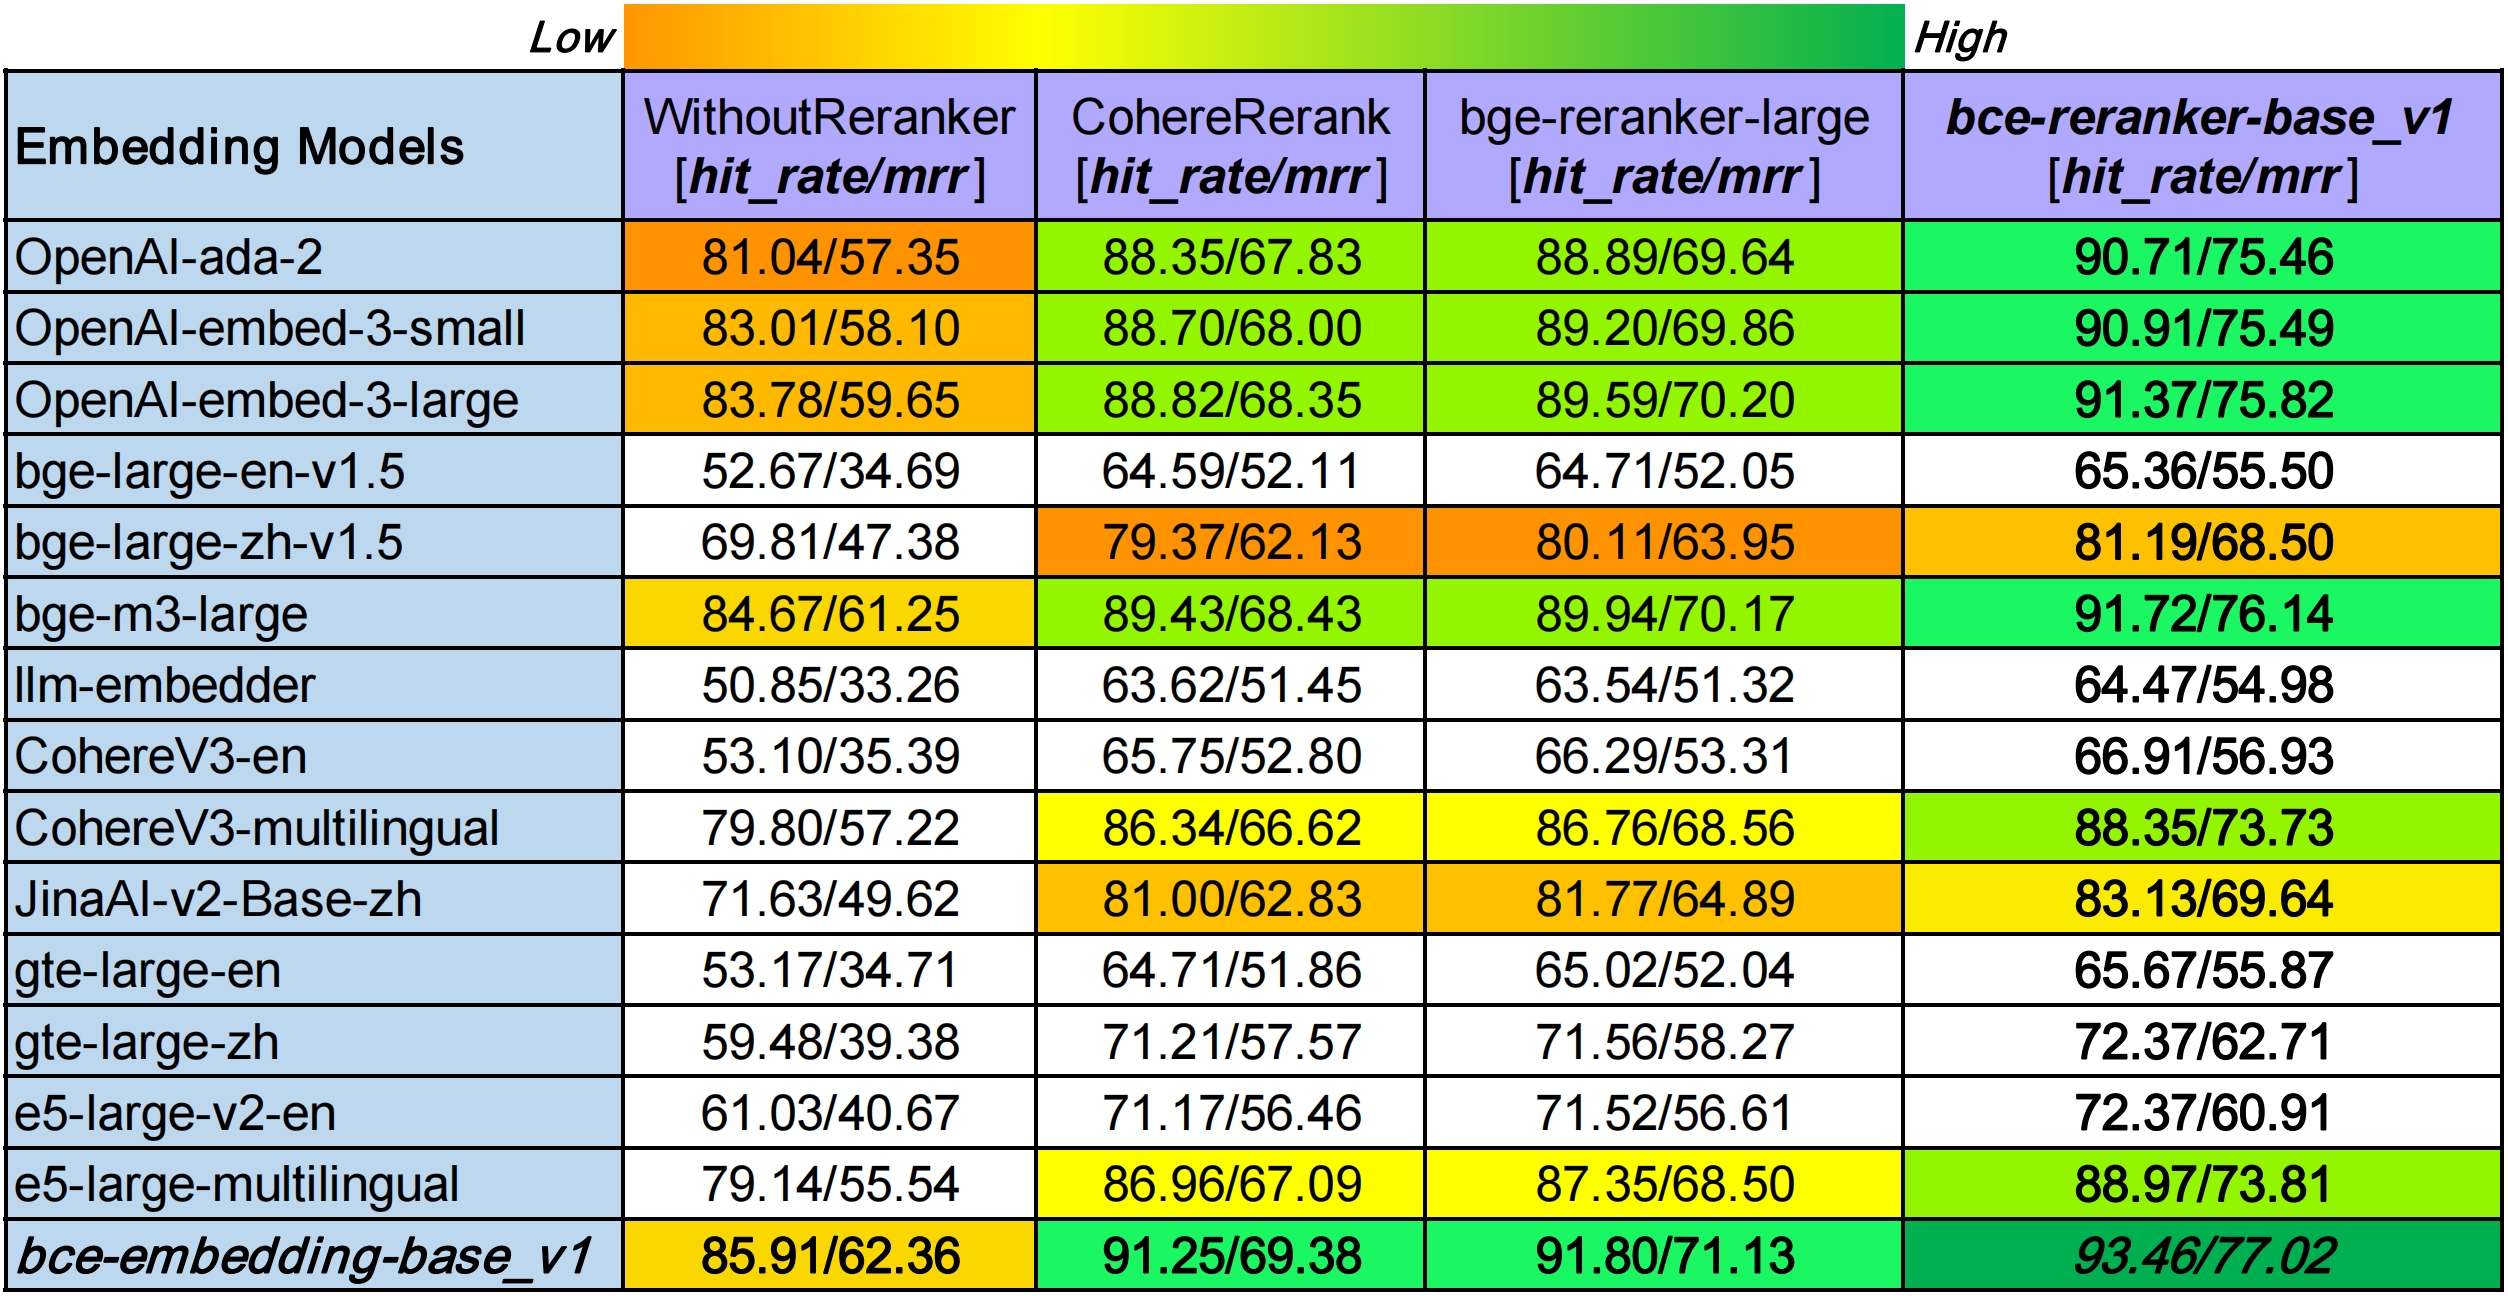
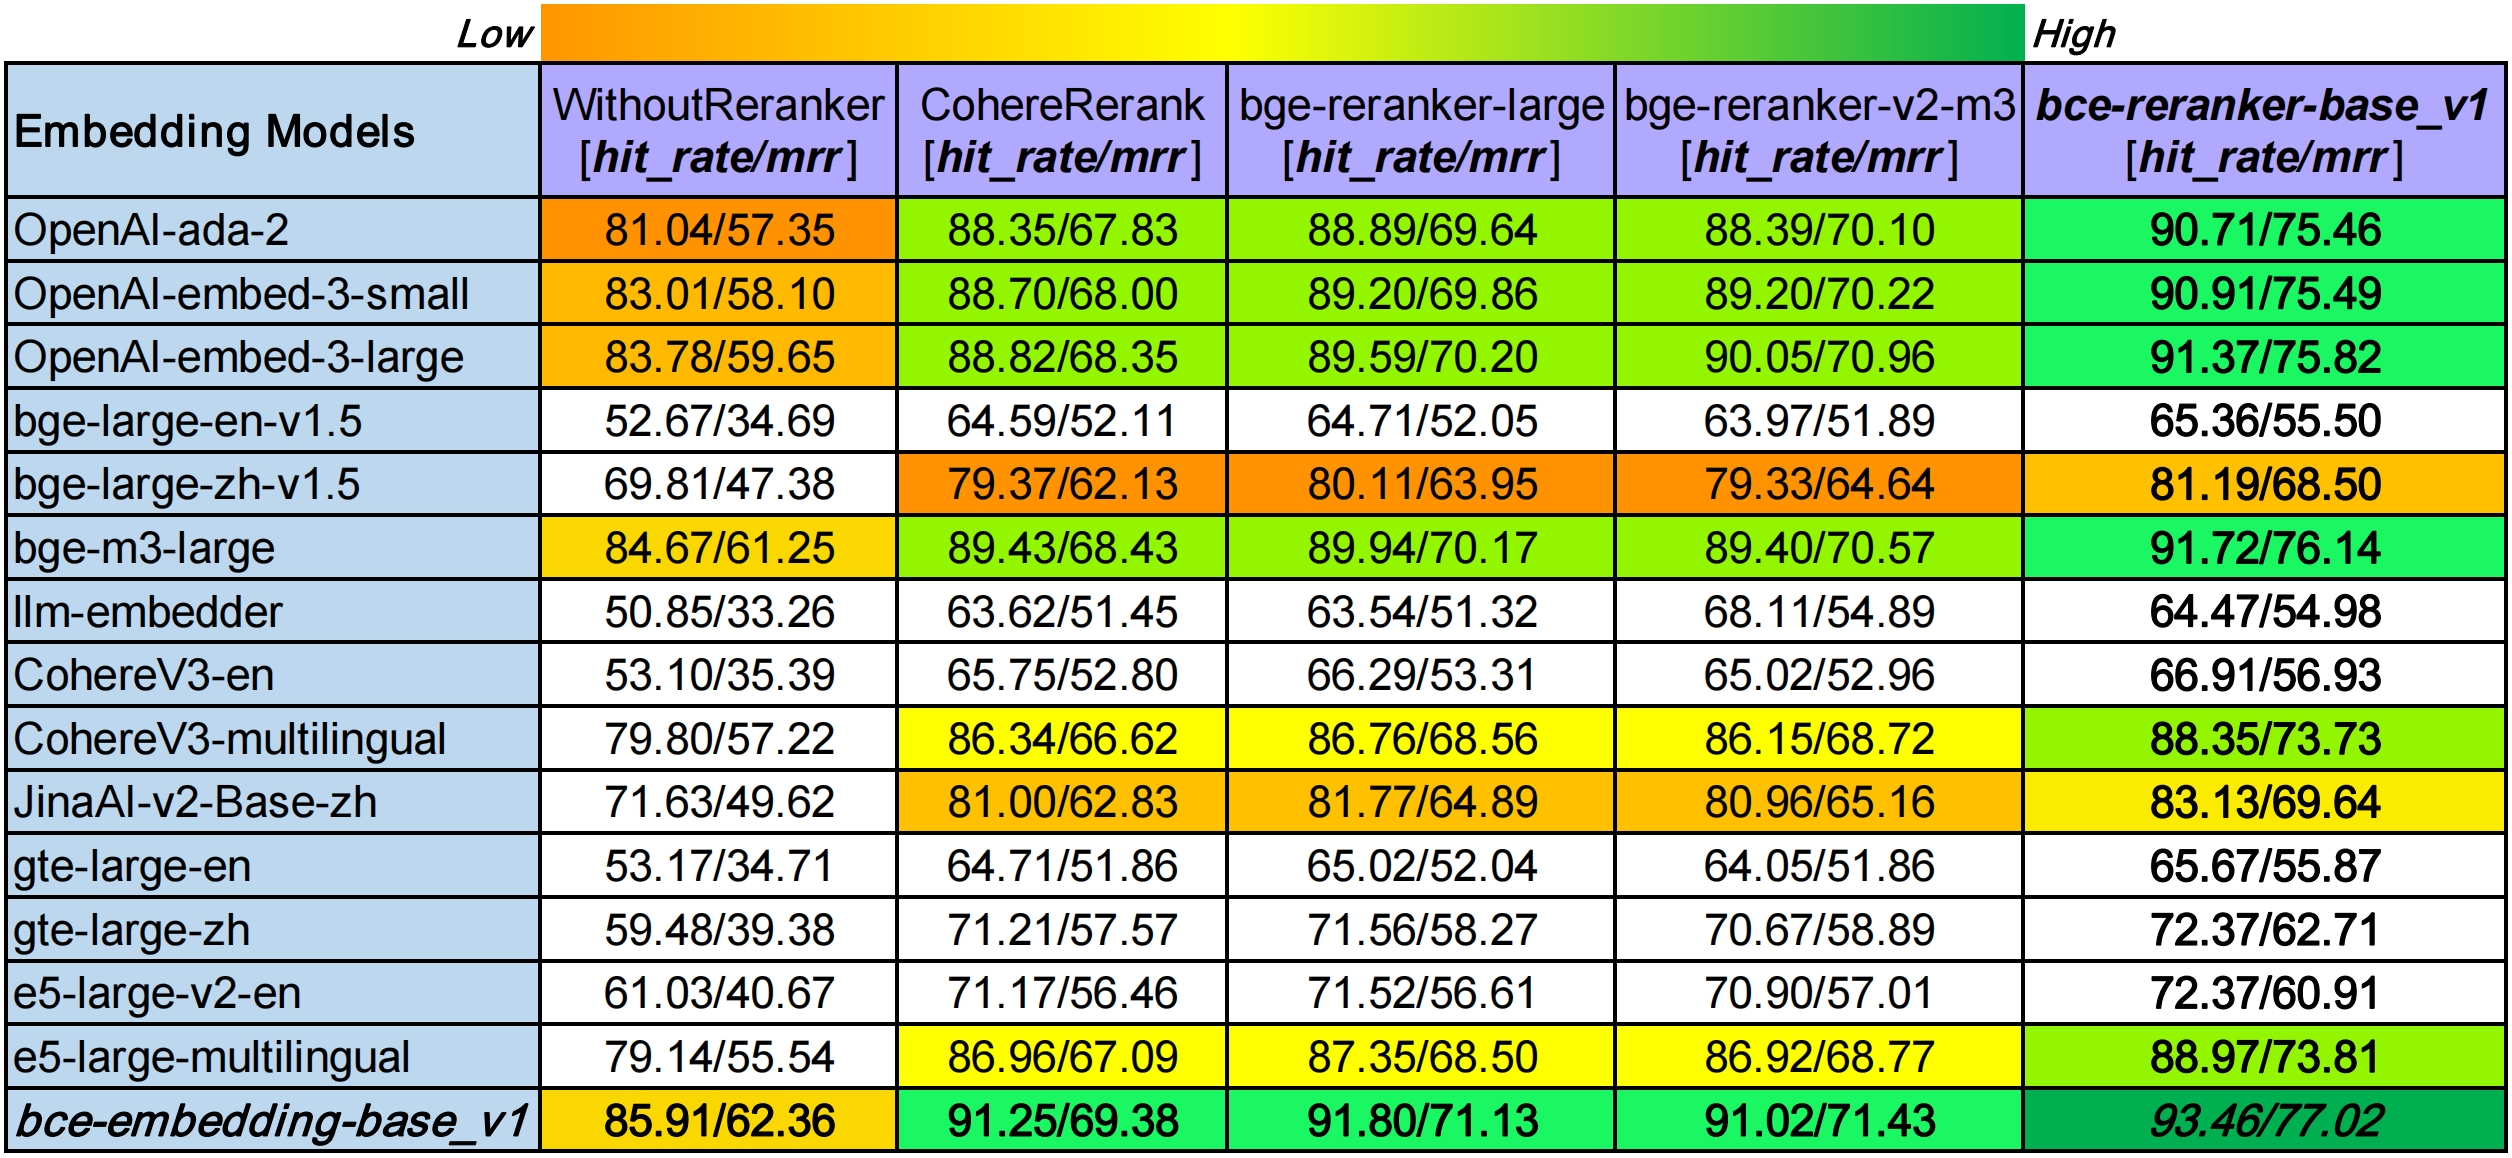
Update RAG leaderboard

diff --git a/BCEmbedding/tools/eval_rag/eval_llamaindex_reproduce.py b/BCEmbedding/tools/eval_rag/eval_llamaindex_reproduce.py
@@ -2,7 +2,7 @@
 @Description: 
 @Author: shenlei
 @Date: 2023-12-26 16:24:57
-@LastEditTime: 2024-02-24 23:14:49
+@LastEditTime: 2024-03-19 09:59:46
 @LastEditors: shenlei
 '''
 import os, json
@@ -75,6 +75,7 @@ RERANKERS = {
     "CohereRerank": {'model': CohereRerank, 'args': {'api_key': os.environ.get('COHERE_APPKEY'), 'top_n': 5}},
     "bge-reranker-base": {'model': SentenceTransformerRerank, 'args': {'model': "BAAI/bge-reranker-base", 'top_n': 5, 'device': 'cuda:1'}},
     "bge-reranker-large": {'model': SentenceTransformerRerank, 'args': {'model': "BAAI/bge-reranker-large", 'top_n': 5, 'device': 'cuda:1'}},
+    "bge-reranker-v2-m3": {'model': SentenceTransformerRerank, 'args': {'model': "BAAI/bge-reranker-v2-m3", 'top_n': 5, 'device': 'cuda:1'}},
     "bce-reranker-base_v1": {'model': SentenceTransformerRerank, 'args': {'model': "maidalun1020/bce-reranker-base_v1", 'top_n': 5, 'device': 'cuda:1'}},
 }
 

diff --git a/BCEmbedding/tools/eval_rag/eval_llamaindex_multiple_domains.py b/BCEmbedding/tools/eval_rag/eval_llamaindex_multiple_domains.py
@@ -2,7 +2,7 @@
 @Description: 
 @Author: shenlei
 @Date: 2023-12-26 16:24:57
-@LastEditTime: 2024-02-04 11:08:06
+@LastEditTime: 2024-03-19 09:59:59
 @LastEditors: shenlei
 '''
 import os, json, sys
@@ -112,6 +112,7 @@ RERANKERS = {
     "WithoutReranker": None,
     "CohereRerank": {'model': CohereRerank, 'args': {'api_key': os.environ.get('COHERE_APPKEY'), 'top_n': 5}},
     "bge-reranker-large": {'model': SentenceTransformerRerank, 'args': {'model': "BAAI/bge-reranker-large", 'top_n': 5, 'device': 'cuda:1'}},
+    "bge-reranker-v2-m3": {'model': SentenceTransformerRerank, 'args': {'model': "BAAI/bge-reranker-v2-m3", 'top_n': 5, 'device': 'cuda:1'}},
     "bce-reranker-base_v1": {'model': SentenceTransformerRerank, 'args': {'model': "maidalun1020/bce-reranker-base_v1", 'top_n': 5, 'device': 'cuda:1'}},
 }
 

diff --git a/Docs/EvaluationSummary/rag_eval_reproduced_summary.md b/Docs/EvaluationSummary/rag_eval_reproduced_summary.md
@@ -2,29 +2,29 @@
  * @Description: 
  * @Author: shenlei
  * @Date: 2023-12-31 23:44:03
- * @LastEditTime: 2024-02-04 18:10:20
+ * @LastEditTime: 2024-03-19 01:10:55
  * @LastEditors: shenlei
 -->
 # RAG Evaluations in LlamaIndex  
 
 ## Reproduce [LlamaIndex Blog](https://blog.llamaindex.ai/boosting-rag-picking-the-best-embedding-reranker-models-42d079022e83)
 
-| Embedding Models | WithoutReranker <br> [*hit_rate/mrr*] | CohereRerank <br> [*hit_rate/mrr*] | bge-reranker-base <br> [*hit_rate/mrr*] | bge-reranker-large <br> [*hit_rate/mrr*] | ***bce-reranker-base_v1*** <br> [*hit_rate/mrr*] | 
-|:-------------------------------|:--------:|:--------:|:--------:|:--------:|:--------:| 
-| OpenAI-ada-2 | 88.18/64.95 | 90.45/75.29 | 91.36/75.74 | 91.36/76.72 | **92.27/78.33** |  
-| OpenAI-embed-3-small | 88.64/64.45 | 89.09/72.99 | 90.91/74.72 | 90.45/76.07 | **91.36/77.50** |  
-| OpenAI-embed-3-large | **91.82/67.98** | **93.18/77.62** | **94.55/78.76** | **95.00/80.02** | **95.91/81.76** |  
-| bge-large-en | 81.36/59.84 | 86.36/71.61 | 87.27/73.93 | 86.82/75.23 | **88.18/77.36** |  
-| bge-base-en-v1.5 | 81.36/57.43 | 88.64/73.73 | 89.55/75.23 | 88.18/74.89 | **89.09/76.89** |  
-| bge-large-en-v1.5 | 83.18/64.34 | 92.27/76.45 | 93.18/78.57 | 92.73/79.59 | **94.09/81.74** |  
-| bge-m3-large | 89.09/69.34 | 92.27/77.36 | 93.64/78.47 | 91.82/78.79 | **94.09/81.14** |  
-| llm-embedder | 75.91/54.50 | 80.91/67.70 | 81.82/70.05 | 81.36/69.86 | **82.73/71.38** |  
-| CohereV2-en | 74.09/51.30 | 80.91/68.38 | 82.73/69.86 | 82.27/69.33 | **83.18/72.58** |  
-| CohereV3-en | 81.36/58.88 | 87.73/72.08 | 88.18/75.29 | 88.64/75.28 | **89.09/76.82** |  
-| JinaAI-v2-Small-en | 80.45/57.85 | 87.73/73.28 | 88.64/73.72 | 88.64/74.39 | **90.00/76.98** |  
-| JinaAI-v2-Base-en | 85.00/61.55 | 89.55/73.64 | 90.00/75.52 | 89.09/75.75 | **90.91/78.18** |  
-| gte-large-en | 82.27/60.28 | 90.00/73.77 | 90.00/75.94 | 90.00/76.80 | **91.36/78.42** |  
-| e5-large-v2-en | 88.64/63.80 | 90.91/75.63 | 91.36/76.64 | 91.82/76.90 | **92.73/79.32** |  
-| e5-base-multilingual | 87.73/64.21 | 90.45/75.42 | 93.18/77.20 | 91.82/78.39 | **93.64/80.53** |  
-| e5-large-multilingual | 87.27/64.28 | 90.00/75.33 | 90.00/75.94 | 90.00/76.17 | **91.36/78.64** |  
-| ***bce-embedding-base_v1*** | **91.36/71.20** | **92.73/77.65** | **95.00/79.01** | **95.00/79.95** | ***96.36/82.20*** |  
+| Embedding Models | WithoutReranker <br> [*hit_rate/mrr*] | CohereRerank <br> [*hit_rate/mrr*] | bge-reranker-base <br> [*hit_rate/mrr*] | bge-reranker-large <br> [*hit_rate/mrr*] | bge-reranker-v2-m3 <br> [*hit_rate/mrr*] | ***bce-reranker-base_v1*** <br> [*hit_rate/mrr*] | 
+|:-------------------------------|:--------:|:--------:|:--------:|:--------:|:--------:|:--------:| 
+| OpenAI-ada-2 | 88.18/64.95 | 90.45/75.29 | 91.36/75.74 | 91.36/76.72 | 90.00/76.25 | **92.27/78.33** |  
+| OpenAI-embed-3-small | 88.64/64.45 | 89.09/72.99 | 90.91/74.72 | 90.45/76.07 | 89.55/75.35 | **91.36/77.50** |  
+| OpenAI-embed-3-large | **91.82/67.98** | **93.18/77.62** | **94.55/78.76** | **95.00/80.02** | 94.09/78.11 | **95.91/81.76** |  
+| bge-large-en | 81.36/59.84 | 86.36/71.61 | 87.27/73.93 | 86.82/75.23 | 85.91/72.83 | **88.18/77.36** |  
+| bge-base-en-v1.5 | 81.36/57.43 | 88.64/73.73 | 89.55/75.23 | 88.18/74.89 | 88.18/74.23 | **89.09/76.89** |  
+| bge-large-en-v1.5 | 83.18/64.34 | 92.27/76.45 | 93.18/78.57 | 92.73/79.59 | 92.27/77.81 | **94.09/81.74** |  
+| bge-m3-large | 89.09/69.34 | 92.27/77.36 | 93.64/78.47 | 91.82/78.79 | 91.82/77.77 | **94.09/81.14** |  
+| llm-embedder | 75.91/54.50 | 80.91/67.70 | 81.82/70.05 | 81.36/69.86 | 82.27/68.55 | **82.73/71.38** |  
+| CohereV2-en | 74.09/51.30 | 80.91/68.38 | 82.73/69.86 | 82.27/69.33 | 80.91/68.94 | **83.18/72.58** |  
+| CohereV3-en | 81.36/58.88 | 87.73/72.08 | 88.18/75.29 | 88.64/75.28 | 88.18/73.52 | **89.09/76.82** |  
+| JinaAI-v2-Small-en | 80.45/57.85 | 87.73/73.28 | 88.64/73.72 | 88.64/74.39 | 88.64/73.77 | **90.00/76.98** |  
+| JinaAI-v2-Base-en | 85.00/61.55 | 89.55/73.64 | 90.00/75.52 | 89.09/75.75 | 89.55/74.33 | **90.91/78.18** |  
+| gte-large-en | 82.27/60.28 | 90.00/73.77 | 90.00/75.94 | 90.00/76.80 | 89.55/76.02 | **91.36/78.42** |  
+| e5-large-v2-en | 88.64/63.80 | 90.91/75.63 | 91.36/76.64 | 91.82/76.90 | 90.91/76.53 | **92.73/79.32** |  
+| e5-base-multilingual | 87.73/64.21 | 90.45/75.42 | 93.18/77.20 | 91.82/78.39 | 92.73/77.11 | **93.64/80.53** |  
+| e5-large-multilingual | 87.27/64.28 | 90.00/75.33 | 90.00/75.94 | 90.00/76.17 | 89.55/75.51 | **91.36/78.64** |  
+| ***bce-embedding-base_v1*** | **91.36/71.20** | **92.73/77.65** | **95.00/79.01** | **95.00/79.95** | **94.55/79.20** | ***96.36/82.20*** |  

diff --git a/Docs/EvaluationSummary/rag_eval_multiple_domains_summary_en.md b/Docs/EvaluationSummary/rag_eval_multiple_domains_summary_en.md
@@ -2,24 +2,24 @@
  * @Description: 
  * @Author: shenlei
  * @Date: 2024-01-29 16:14:48
- * @LastEditTime: 2024-02-04 14:54:55
+ * @LastEditTime: 2024-03-19 09:58:23
  * @LastEditors: shenlei
 -->
 # RAG Evaluations in LlamaIndex  
 
 ## Multiple Domains Scenarios in ["en"] 
-| Embedding Models | WithoutReranker <br> [*hit_rate/mrr*] | CohereRerank <br> [*hit_rate/mrr*] | bge-reranker-large <br> [*hit_rate/mrr*] | ***bce-reranker-base_v1*** <br> [*hit_rate/mrr*] | 
-|:-------------------------------|:--------:|:--------:|:--------:|:--------:| 
-| OpenAI-ada-2 | 85.05/62.29 | 91.72/72.77 | 91.83/72.17 | **92.90/77.17** |  
-| OpenAI-embed-3-small | 87.20/61.64 | 91.72/72.60 | 92.15/72.22 | **92.80/76.46** |  
-| OpenAI-embed-3-large | 85.38/61.79 | 90.97/72.25 | 91.29/71.97 | **91.72/76.37** |  
-| bge-large-en-v1.5 | 84.62/61.22 | 91.51/72.71 | 91.94/72.35 | **92.47/76.61** |  
-| bge-m3-large | 86.67/64.22 | 92.15/73.19 | 92.69/72.04 | **93.33/77.24** |  
-| llm-embedder | 77.53/56.10 | 86.34/69.36 | 86.56/68.78 | **87.42/73.44** |  
-| CohereV3-en | 80.65/58.33 | 87.96/70.09 | 88.71/69.61 | **89.03/74.06** |  
-| CohereV3-multilingual | 83.33/60.70 | 90.54/72.41 | 90.43/72.11 | **90.97/76.26** |  
-| JinaAI-v2-Base-en | 81.94/58.03 | 90.32/71.65 | 90.75/71.11 | **91.29/75.53** |  
-| gte-large-en | 83.44/59.18 | 90.97/72.24 | 91.61/72.38 | **92.26/76.52** |  
-| e5-large-v2-en | 85.05/61.90 | 91.18/71.45 | 91.18/70.56 | **92.37/75.81** |  
-| e5-large-multilingual | 85.91/61.87 | **93.01/73.38** | 92.80/72.45 | **93.44/77.31** |  
-| ***bce-embedding-base_v1*** | **87.42/63.93** | 92.69/73.34 | **93.33/73.06** | ***93.87/77.88*** |  
+| Embedding Models | WithoutReranker <br> [*hit_rate/mrr*] | CohereRerank <br> [*hit_rate/mrr*] | bge-reranker-large <br> [*hit_rate/mrr*] | bge-reranker-v2-m3 <br> [*hit_rate/mrr*] | ***bce-reranker-base_v1*** <br> [*hit_rate/mrr*] | 
+|:-------------------------------|:--------:|:--------:|:--------:|:--------:|:--------:| 
+| OpenAI-ada-2 | 85.05/62.29 | 91.72/72.77 | 91.83/72.17 | 89.57/70.33 | **92.90/77.17** |  
+| OpenAI-embed-3-small | 87.20/61.64 | 91.72/72.60 | 92.15/72.22 | 90.65/70.63 | **92.80/76.46** |  
+| OpenAI-embed-3-large | 85.38/61.79 | 90.97/72.25 | 91.29/71.97 | 89.89/70.71 | **91.72/76.37** |  
+| bge-large-en-v1.5 | 84.62/61.22 | 91.51/72.71 | 91.94/72.35 | 89.35/70.80 | **92.47/76.61** |  
+| bge-m3-large | 86.67/64.22 | 92.15/73.19 | 92.69/72.04 | 89.68/70.52 | **93.33/77.24** |  
+| llm-embedder | 77.53/56.10 | 86.34/69.36 | 86.56/68.78 | **89.35/70.61** | **87.42/73.44** |  
+| CohereV3-en | 80.65/58.33 | 87.96/70.09 | 88.71/69.61 | 86.56/68.63 | **89.03/74.06** |  
+| CohereV3-multilingual | 83.33/60.70 | 90.54/72.41 | 90.43/72.11 | 88.60/70.34 | **90.97/76.26** |  
+| JinaAI-v2-Base-en | 81.94/58.03 | 90.32/71.65 | 90.75/71.11 | 88.06/68.87 | **91.29/75.53** |  
+| gte-large-en | 83.44/59.18 | 90.97/72.24 | 91.61/72.38 | 89.25/70.57 | **92.26/76.52** |  
+| e5-large-v2-en | 85.05/61.90 | 91.18/71.45 | 91.18/70.56 | 89.68/69.59 | **92.37/75.81** |  
+| e5-large-multilingual | 85.91/61.87 | **93.01/73.38** | 92.80/72.45 | 90.97/70.94 | **93.44/77.31** |  
+| ***bce-embedding-base_v1*** | **87.42/63.93** | 92.69/73.34 | **93.33/73.06** | **91.08/71.31** | ***93.87/77.88*** |  

diff --git a/Docs/EvaluationSummary/rag_eval_multiple_domains_summary_zh.md b/Docs/EvaluationSummary/rag_eval_multiple_domains_summary_zh.md
@@ -2,21 +2,21 @@
  * @Description: 
  * @Author: shenlei
  * @Date: 2024-01-29 16:17:57
- * @LastEditTime: 2024-02-04 11:33:00
+ * @LastEditTime: 2024-03-19 01:18:12
  * @LastEditors: shenlei
 -->
 # RAG Evaluations in LlamaIndex  
 
 ## Multiple Domains Scenarios in ["zh"] 
-| Embedding Models | WithoutReranker <br> [*hit_rate/mrr*] | CohereRerank <br> [*hit_rate/mrr*] | bge-reranker-large <br> [*hit_rate/mrr*] | ***bce-reranker-base_v1*** <br> [*hit_rate/mrr*] | 
-|:-------------------------------|:--------:|:--------:|:--------:|:--------:| 
-| OpenAI-ada-2 | 77.35/56.19 | 85.36/68.13 | 86.19/69.59 | **88.67/75.26** |  
-| OpenAI-embed-3-small | 84.53/62.51 | 90.06/70.70 | 89.78/71.83 | **92.54/78.36** |  
-| OpenAI-embed-3-large | 84.25/60.10 | 88.12/69.97 | 89.23/71.21 | **92.27/77.28** |  
-| bge-large-zh-v1.5 | 84.81/61.90 | 89.50/69.81 | 89.50/71.07 | **92.82/77.64** |  
-| bge-m3-large | **87.57/65.01** | 91.16/71.39 | 91.44/72.03 | **94.75/79.46** |  
-| CohereV3-multilingual | 82.87/63.22 | 86.19/68.14 | 85.64/68.26 | **88.40/74.42** |  
-| JinaAI-v2-Base-zh | 78.45/56.80 | 84.81/67.33 | 84.81/68.14 | **88.12/75.09** |  
-| gte-large-zh | 77.35/55.33 | 85.36/67.06 | 85.08/68.83 | **87.85/74.79** |  
-| e5-large-multilingual | 87.02/65.26 | 89.78/70.73 | 90.33/71.51 | **92.82/78.69** |  
-| ***bce-embedding-base_v1*** | 83.70/62.90 | **92.27/71.94** | **92.27/72.79** | ***95.03/79.57*** |  
+| Embedding Models | WithoutReranker <br> [*hit_rate/mrr*] | CohereRerank <br> [*hit_rate/mrr*] | bge-reranker-large <br> [*hit_rate/mrr*] | bge-reranker-v2-m3 <br> [*hit_rate/mrr*] | ***bce-reranker-base_v1*** <br> [*hit_rate/mrr*] | 
+|:-------------------------------|:--------:|:--------:|:--------:|:--------:|:--------:| 
+| OpenAI-ada-2 | 77.35/56.19 | 85.36/68.13 | 86.19/69.59 | 86.74/70.94 | **88.67/75.26** |  
+| OpenAI-embed-3-small | 84.53/62.51 | 90.06/70.70 | 89.78/71.83 | 91.16/73.72 | **92.54/78.36** |  
+| OpenAI-embed-3-large | 84.25/60.10 | 88.12/69.97 | 89.23/71.21 | 91.16/73.26 | **92.27/77.28** |  
+| bge-large-zh-v1.5 | 84.81/61.90 | 89.50/69.81 | 89.50/71.07 | 90.61/73.11 | **92.82/77.64** |  
+| bge-m3-large | **87.57/65.01** | 91.16/71.39 | 91.44/72.03 | **93.09/74.02** | **94.75/79.46** |  
+| CohereV3-multilingual | 82.87/63.22 | 86.19/68.14 | 85.64/68.26 | 86.74/70.25 | **88.40/74.42** |  
+| JinaAI-v2-Base-zh | 78.45/56.80 | 84.81/67.33 | 84.81/68.14 | 85.64/69.92 | **88.12/75.09** |  
+| gte-large-zh | 77.35/55.33 | 85.36/67.06 | 85.08/68.83 | 85.91/70.08 | **87.85/74.79** |  
+| e5-large-multilingual | 87.02/65.26 | 89.78/70.73 | 90.33/71.51 | 90.88/73.74 | **92.82/78.69** |  
+| ***bce-embedding-base_v1*** | 83.70/62.90 | **92.27/71.94** | **92.27/72.79** | **92.54/75.11** | ***95.03/79.57*** |  

diff --git a/README_zh.md b/README_zh.md
@@ -3,7 +3,7 @@
  * @Author: shenlei
  * @Modified: linhui
  * @Date: 2023-12-19 10:31:41
- * @LastEditTime: 2024-03-17 10:34:20
+ * @LastEditTime: 2024-03-17 22:34:40
  * @LastEditors: shenlei
 -->
 
@@ -79,7 +79,7 @@
 ### 典型案例
 
 - RAG应用项目：[QAnything](https://github.com/netease-youdao/qanything), [HuixiangDou](https://github.com/InternLM/HuixiangDou), [ChatPDF](https://github.com/shibing624/ChatPDF).
-- 高效推理引擎：[ChatLLM.cpp](https://github.com/foldl/chatllm.cpp), [Xinference](https://github.com/xorbitsai/inference), [mindnlp(昇腾显卡)](https://github.com/mindspore-lab/mindnlp/tree/master/llm/inference/bce).
+- 高效推理引擎：[ChatLLM.cpp](https://github.com/foldl/chatllm.cpp), [Xinference](https://github.com/xorbitsai/inference), [mindnlp(支持华为显卡)](https://github.com/mindspore-lab/mindnlp/tree/master/llm/inference/bce).
 
 ## 🌐 双语和跨语种优势
 

diff --git a/README.md b/README.md
@@ -3,7 +3,7 @@
  * @Author: shenlei
  * @Modified: linhui
  * @Date: 2023-12-19 10:31:41
- * @LastEditTime: 2024-03-17 10:34:35
+ * @LastEditTime: 2024-03-17 22:34:26
  * @LastEditors: shenlei
 -->
 
